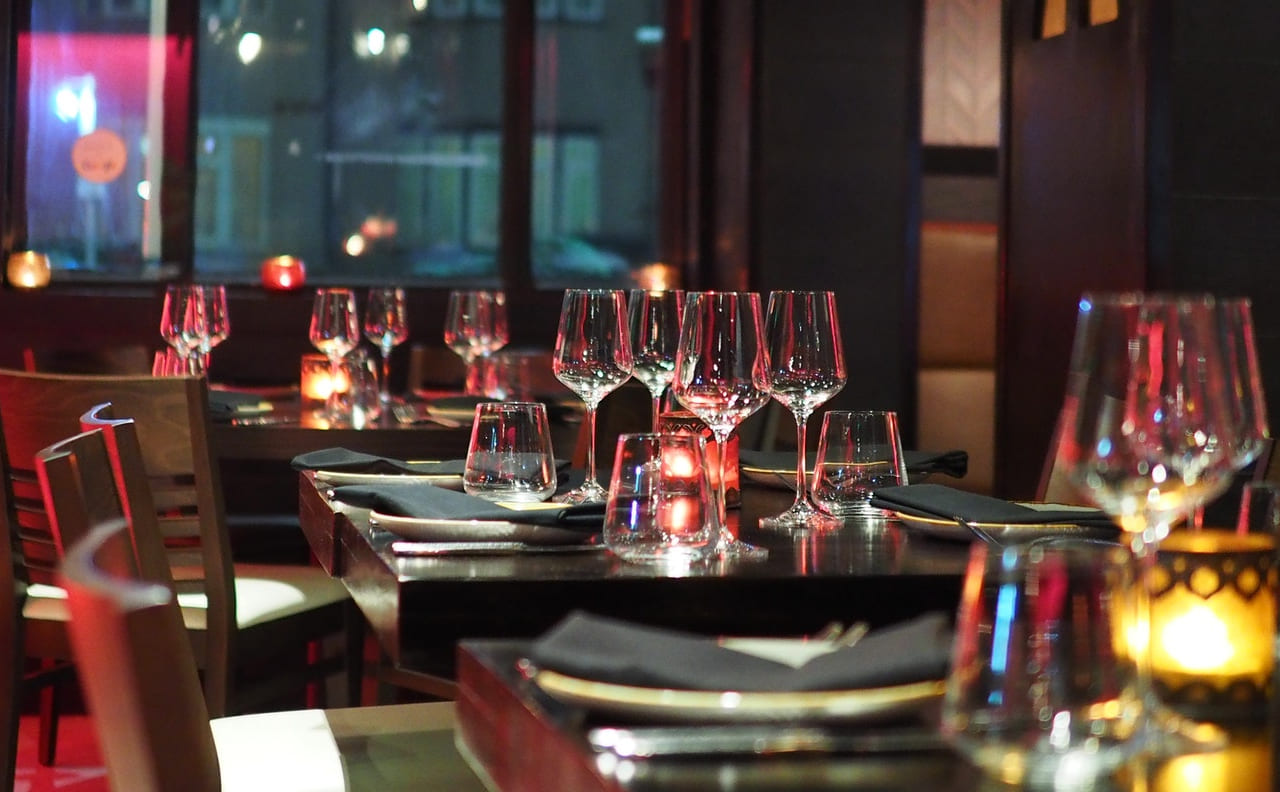
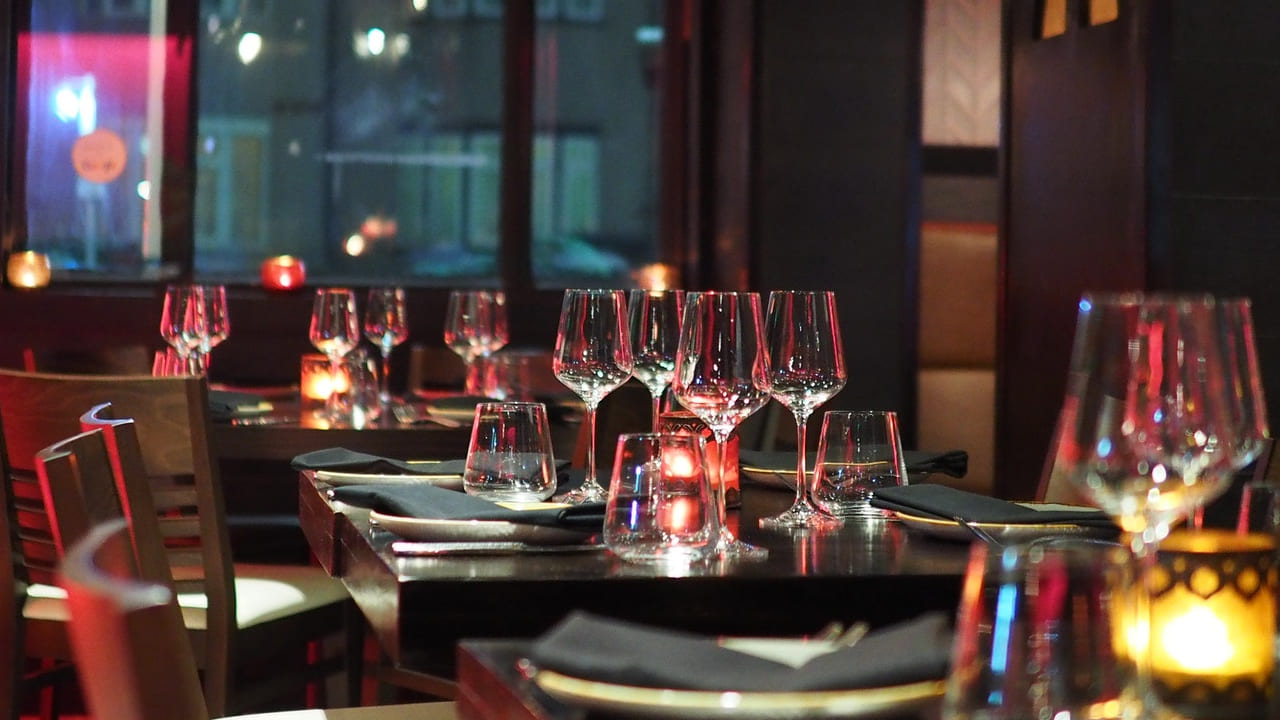
fix buttoms, hero & photo height, add bg-color

diff --git a/src/index.html b/src/index.html
@@ -1,18 +1,19 @@
 <!DOCTYPE html>
 <html lang="uk">
-  <head>
-    <meta charset="UTF-8" />
-    <meta name="viewport" content="width=device-width, initial-scale=1.0" />
-    <title>MIMIHO</title>
-    <!-- link slider -->
-    <include src="../src/partials/slider/link-slider.html"></include>
-    <link rel="stylesheet" href="./sass/index.scss" />
-    <script type="module" src="./index.js"></script>
-  </head>
-  <body>
-    <!-- header -->
-    <section class="header">
-    <section class="header container">
+
+<head>
+  <meta charset="UTF-8" />
+  <meta name="viewport" content="width=device-width, initial-scale=1.0" />
+  <title>MIMIHO</title>
+  <!-- link slider -->
+  <include src="../src/partials/slider/link-slider.html"></include>
+  <link rel="stylesheet" href="./sass/index.scss" />
+  <script type="module" src="./index.js"></script>
+</head>
+
+<body>
+  <!-- header -->
+  <section class="header container">
     <div class="header__wrap">
       <include src="./partials/header.html"></include>
       <div class="header__social">
@@ -23,10 +24,12 @@
   <!-- main -->
   <main>
     <!-- hero -->
-    <section class="hero hero--main container">
-      <include src="./partials/hero-home.html"></include>
-      <div class="hero__social">
-        <include src="./partials/social.html"></include>
+    <section class="hero">
+      <div class="hero__container hero__main container">
+        <include src="./partials/hero-home.html"></include>
+        <div class="hero__social">
+          <include src="./partials/social.html"></include>
+        </div>
       </div>
     </section>
     <!-- restaurant-about -->
@@ -62,12 +65,13 @@
   <!-- scripts -->
   <script src="./js/modal.js"></script>
 
-    <include src="../src/partials/slider/script-slider.html"></include>
-    <include src="./js/slider-hero.js"></include>
-    <include src="./js/slider-third.js"></include>
-    <include src="./js/slider-two.js"></include>
+  <include src="../src/partials/slider/script-slider.html"></include>
+  <include src="./js/slider-hero.js"></include>
+  <include src="./js/slider-third.js"></include>
+  <include src="./js/slider-two.js"></include>
 
-    <!-- scripts -->
-    <script src="./js/modal.js"></script>
-  </body>
+  <!-- scripts -->
+  <script src="./js/modal.js"></script>
+</body>
+
 </html>

diff --git a/src/sass/layout/_buttons.scss b/src/sass/layout/_buttons.scss
@@ -1,17 +1,19 @@
 .button {
-  padding: 14px;
+  height: 48px;
+  // padding: 14px;
   min-width: 232px;
   display: inline-flex;
   justify-content: center;
   align-items: center;
   text-decoration: none;
-  text-align: center;
+  font-weight: 700;
   line-height: 1.25;
+  letter-spacing: 0.02em;
   color: #f3c653;
 
   border: 2px solid #ffffff;
   border-radius: 25px;
-  transition: background-color 250ms linear, border 250ms linear,
+  transition: background-color 250ms linear, border-color 250ms linear,
     color 250ms linear;
 
   &:hover,
@@ -37,19 +39,73 @@
 }
 
 .booking-room-btn {
-  padding: 20px;
+  height: 64px;
+  // padding: 20px;
   min-width: 384px;
+  display: inline-flex;
+  justify-content: center;
+  align-items: center;
+
+  font-size: 20px;
+  font-weight: 500;
+  line-height: 1.2;
+  text-transform: uppercase;
+  color: #ffffff;
+  background-color: #000000;
+  border: 1px solid #f3c653;
+  border-radius: 25px;
+  transition: background-color 250ms linear, border-color 250ms linear,
+    color 250ms linear;
+
+  &:hover,
+  &:focus {
+    color: #000000;
+    background-color: #f3c653;
+    border-color: F3C653;
+  }
+
   @media screen and (min-width: 1024px) {
-    padding: 18px;
+    // padding: 18px;
     min-width: 434px;
+    font-size: 24px;
   }
 }
 
 .modal-desk-btn {
-  padding: 20px;
+  height: 64px;
+  // padding: 20px;
   min-width: 384px;
+  display: inline-flex;
+  justify-content: center;
+  align-items: center;
+
+  font-size: 20px;
+  font-weight: 500;
+  line-height: 1.2;
+  text-transform: uppercase;
+  color: #ffffff;
+  background-color: #000000;
+  border: 1px solid #f3c653;
+  border-radius: 2px;
+  transition: background-color 250ms linear, border-color 250ms linear,
+    color 250ms linear;
+
+  &:hover,
+  &:focus {
+    color: #000000;
+    background-color: #f3c653;
+    border-color: F3C653;
+  }
+
+  &:hover,
+  &:focus {
+    color: #000000;
+    background-color: #f3c653;
+    border-color: F3C653;
+  }
+
   @media screen and (min-width: 1024px) {
-    padding: 18px;
+    // padding: 18px;
     min-width: 592px;
   }
 }

diff --git a/src/sass/components/homepage/_hero-home.scss b/src/sass/components/homepage/_hero-home.scss
@@ -1,18 +1,22 @@
 .hero {
-  position: relative;
+  background-color: #0e0c07;
 
-  padding-top: 181px;
-  padding-bottom: 20px;
+  &__container {
+    position: relative;
 
-  @media screen and (min-width: 1024px) {
-    padding-top: 188px;
-    padding-bottom: 15px;
+    padding-top: 181px;
+    padding-bottom: 20px;
+
+    @media screen and (min-width: 1024px) {
+      padding-top: 188px;
+      padding-bottom: 15px;
+    }
+    @media screen and (min-width: 1280px) {
+      padding-top: 164px;
+      padding-bottom: 64px;
+    }
+    background-color: #474747;
   }
-  @media screen and (min-width: 1280px) {
-    padding-top: 164px;
-    padding-bottom: 64px;
-  }
-  background-color: #474747;
 
   &__social {
     @media screen and (min-width: 1280px) {
@@ -20,7 +24,8 @@
     }
   }
 
-  &--main {
+  &__main {
+    background-size: cover;
     background-image: linear-gradient(
         to right,
         rgba(0, 0, 0, 0.65),
@@ -75,7 +80,8 @@
     }
   }
 
-  &--restaurant {
+  &__restaurant {
+    background-size: cover;
     background-image: linear-gradient(
         to right,
         rgba(0, 0, 0, 0.65),
@@ -130,7 +136,8 @@
     }
   }
 
-  &--hotel {
+  &__hotel {
+    background-size: cover;
     background-image: linear-gradient(
         to right,
         rgba(0, 0, 0, 0.65),
@@ -233,7 +240,7 @@
     }
   }
 
-  .hero__wrap {
+  &__wrap {
     display: flex;
 
     @media screen and (max-width: 1023px) {
@@ -242,11 +249,10 @@
   }
 
   &__button {
-    // display: block; вопрос!!!!!!!
     margin: 0 auto 24px;
 
     & + .hero__button {
-      margin-bottom: 130px;
+      margin-bottom: 58px;
     }
 
     @media screen and (min-width: 1024px) {
@@ -282,7 +288,7 @@
   border-radius: 2px;
 
   &__link {
-    padding: 8px;
+    padding: 7px;
     display: flex;
 
     text-decoration: none;

diff --git a/src/hotel.html b/src/hotel.html
@@ -25,10 +25,12 @@
     <!-- main -->
     <main>
         <!-- hero -->
-        <section class="hero hero--hotel container">
-            <include src="./partials/pages/hotel/hero-hotel.html"></include>
-            <div class="hero__social">
-                <include src="./partials/social.html"></include>
+        <section class="hero">
+            <div class="hero__container hero__hotel container">
+                <include src="./partials/pages/hotel/hero-hotel.html"></include>
+                <div class="hero__social">
+                    <include src="./partials/social.html"></include>
+                </div>
             </div>
         </section>
         <!-- adult-lux -->
@@ -47,15 +49,15 @@
     </section>
 
     <!-- modal window -->
-  <div data-modal>
-    <include src="./partials/modal-table.html"></include>
-  </div>
-  <div data-modal>
-    <include src="./partials/modal-room.html"></include>
-  </div>
+    <div data-modal>
+        <include src="./partials/modal-table.html"></include>
+    </div>
+    <div data-modal>
+        <include src="./partials/modal-room.html"></include>
+    </div>
 
-  <!-- scripts -->
-  <script src="./js/modal.js"></script>
+    <!-- scripts -->
+    <script src="./js/modal.js"></script>
 
     <include src="../src/partials/slider/script-slider.html"></include>
     <include src="./js/slider-hero.js"></include>
@@ -63,4 +65,5 @@
     <include src="./js/slider-two.js"></include>
 
 </body>
+
 </html>

diff --git a/src/restaurant.html b/src/restaurant.html
@@ -25,10 +25,12 @@
     <!-- main -->
     <main>
         <!-- hero -->
-        <section class="hero hero--restaurant container">
-            <include src="./partials/pages/restaurant/hero-restaurant.html"></include>
-            <div class="hero__social">
-                <include src="./partials/social.html"></include>
+        <section class="hero">
+            <div class="hero__container hero__restaurant container">
+                <include src="./partials/pages/restaurant/hero-restaurant.html"></include>
+                <div class="hero__social">
+                    <include src="./partials/social.html"></include>
+                </div>
             </div>
         </section>
 
@@ -45,15 +47,15 @@
     </section>
 
     <!-- modal window -->
-  <div data-modal>
-    <include src="./partials/modal-table.html"></include>
-  </div>
-  <div data-modal>
-    <include src="./partials/modal-room.html"></include>
-  </div>
+    <div data-modal>
+        <include src="./partials/modal-table.html"></include>
+    </div>
+    <div data-modal>
+        <include src="./partials/modal-room.html"></include>
+    </div>
 
-  <!-- scripts -->
-  <script src="./js/modal.js"></script>
+    <!-- scripts -->
+    <script src="./js/modal.js"></script>
 
     <include src="../src/partials/slider/script-slider.html"></include>
     <include src="./js/slider-hero.js"></include>
